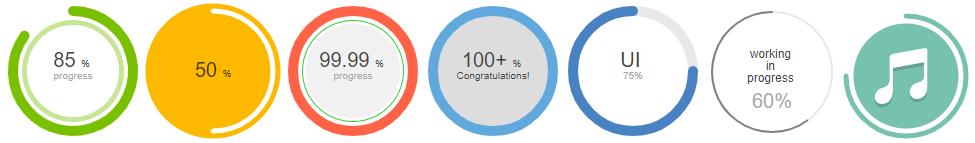
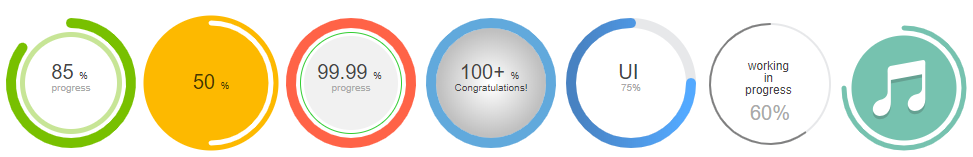
1. Fix #49, #52, #57. 2. Release 1.4.0.

diff --git a/src/circle-progress.component.ts b/src/circle-progress.component.ts
@@ -3,7 +3,9 @@ import {Subscription, timer} from 'rxjs';
 
 export interface CircleProgressOptionsInterface {
     class?: string;
+    backgroundGradient?: boolean;
     backgroundColor?: string;
+    backgroundGradientStopColor?: string;
     backgroundOpacity?: number;
     backgroundStroke?: string;
     backgroundStrokeWidth?: number;
@@ -16,9 +18,12 @@ export interface CircleProgressOptionsInterface {
     renderOnClick?: boolean;
     units?: string;
     unitsFontSize?: string;
+    unitsFontWeight?: string;
     unitsColor?: string;
+    outerStrokeGradient?: boolean;
     outerStrokeWidth?: number;
     outerStrokeColor?: string;
+    outerStrokeGradientStopColor?: string;
     outerStrokeLinecap?: string;
     innerStrokeColor?: string;
     innerStrokeWidth?: number;
@@ -26,10 +31,12 @@ export interface CircleProgressOptionsInterface {
     title?: string | Array<String>;
     titleColor?: string;
     titleFontSize?: string;
+    titleFontWeight?: string;
     subtitleFormat?: Function;
     subtitle?: string | Array<String>;
     subtitleColor?: string;
     subtitleFontSize?: string;
+    subtitleFontWeight?: string;
     imageSrc?: string;
     imageHeight?: number;
     imageWidth?: number;    
@@ -46,11 +53,14 @@ export interface CircleProgressOptionsInterface {
     clockwise?: boolean;
     responsive?: boolean;
     startFromZero?: boolean;
+    showZeroOuterStroke?: boolean;
 }
 
 export class CircleProgressOptions implements CircleProgressOptionsInterface {
     class = '';
+    backgroundGradient = false;
     backgroundColor = 'transparent';
+    backgroundGradientStopColor = 'transparent';
     backgroundOpacity = 1;
     backgroundStroke = 'transparent';
     backgroundStrokeWidth = 0;
@@ -63,9 +73,12 @@ export class CircleProgressOptions implements CircleProgressOptionsInterface {
     renderOnClick = true;
     units = '%';
     unitsFontSize = '10';
+    unitsFontWeight = 'normal';
     unitsColor = '#444444';
+    outerStrokeGradient = false;
     outerStrokeWidth = 8;
     outerStrokeColor = '#78C000';
+    outerStrokeGradientStopColor = 'transparent';
     outerStrokeLinecap = 'round';
     innerStrokeColor = '#C7E596';
     innerStrokeWidth = 4;
@@ -73,10 +86,12 @@ export class CircleProgressOptions implements CircleProgressOptionsInterface {
     title: string | Array<String> = 'auto';
     titleColor = '#444444';
     titleFontSize = '20';
+    titleFontWeight = 'normal';
     subtitleFormat = undefined;
     subtitle: string | Array<String> = 'progress';
     subtitleColor = '#A9A9A9';
     subtitleFontSize = '10';
+    subtitleFontWeight = 'normal';
     imageSrc = undefined;
     imageHeight = undefined;
     imageWidth = undefined;
@@ -93,6 +108,7 @@ export class CircleProgressOptions implements CircleProgressOptionsInterface {
     clockwise = true;
     responsive = false;
     startFromZero = true;
+    showZeroOuterStroke = true;
 }
 
 @Component({
@@ -101,14 +117,34 @@ export class CircleProgressOptions implements CircleProgressOptionsInterface {
         <svg xmlns="http://www.w3.org/2000/svg" *ngIf="svg"
              [attr.viewBox]="svg.viewBox" preserveAspectRatio="xMidYMid meet"
              [attr.height]="svg.height" [attr.width]="svg.width" (click)="emitClickEvent($event)" [attr.class]="options.class">
-            <circle *ngIf="options.showBackground"
-                    [attr.cx]="svg.backgroundCircle.cx"
-                    [attr.cy]="svg.backgroundCircle.cy"
-                    [attr.r]="svg.backgroundCircle.r"
-                    [attr.fill]="svg.backgroundCircle.fill"
-                    [attr.fill-opacity]="svg.backgroundCircle.fillOpacity"
-                    [attr.stroke]="svg.backgroundCircle.stroke"
-                    [attr.stroke-width]="svg.backgroundCircle.strokeWidth"/>
+            <defs>
+                <linearGradient *ngIf="options.outerStrokeGradient" [attr.id]="svg.outerLinearGradient.id">
+                    <stop offset="5%" [attr.stop-color]="svg.outerLinearGradient.colorStop1"  [attr.stop-opacity]="1"/>
+                    <stop offset="95%" [attr.stop-color]="svg.outerLinearGradient.colorStop2" [attr.stop-opacity]="1"/>
+                </linearGradient>
+                <radialGradient *ngIf="options.backgroundGradient" [attr.id]="svg.radialGradient.id">
+                    <stop offset="5%" [attr.stop-color]="svg.radialGradient.colorStop1" [attr.stop-opacity]="1"/>
+                    <stop offset="95%" [attr.stop-color]="svg.radialGradient.colorStop2" [attr.stop-opacity]="1"/>
+                </radialGradient>
+            </defs>
+            <ng-container *ngIf="options.showBackground">
+                <circle *ngIf="!options.backgroundGradient"
+                        [attr.cx]="svg.backgroundCircle.cx"
+                        [attr.cy]="svg.backgroundCircle.cy"
+                        [attr.r]="svg.backgroundCircle.r"
+                        [attr.fill]="svg.backgroundCircle.fill"
+                        [attr.fill-opacity]="svg.backgroundCircle.fillOpacity"
+                        [attr.stroke]="svg.backgroundCircle.stroke"
+                        [attr.stroke-width]="svg.backgroundCircle.strokeWidth"/>
+                <circle *ngIf="options.backgroundGradient"
+                        [attr.cx]="svg.backgroundCircle.cx"
+                        [attr.cy]="svg.backgroundCircle.cy"
+                        [attr.r]="svg.backgroundCircle.r"
+                        attr.fill="url(#{{svg.radialGradient.id}})"
+                        [attr.fill-opacity]="svg.backgroundCircle.fillOpacity"
+                        [attr.stroke]="svg.backgroundCircle.stroke"
+                        [attr.stroke-width]="svg.backgroundCircle.strokeWidth"/>
+            </ng-container>            
             <circle *ngIf="options.showInnerStroke"
                     [attr.cx]="svg.circle.cx"
                     [attr.cy]="svg.circle.cy"
@@ -116,12 +152,20 @@ export class CircleProgressOptions implements CircleProgressOptionsInterface {
                     [attr.fill]="svg.circle.fill"
                     [attr.stroke]="svg.circle.stroke"
                     [attr.stroke-width]="svg.circle.strokeWidth"/>
-            <path
-                    [attr.d]="svg.path.d"
-                    [attr.stroke]="svg.path.stroke"
-                    [attr.stroke-width]="svg.path.strokeWidth"
-                    [attr.stroke-linecap]="svg.path.strokeLinecap"
-                    [attr.fill]="svg.path.fill"/>
+            <ng-container *ngIf="+options.percent!==0 || options.showZeroOuterStroke">
+                <path *ngIf="!options.outerStrokeGradient"
+                        [attr.d]="svg.path.d"
+                        [attr.stroke]="svg.path.stroke"
+                        [attr.stroke-width]="svg.path.strokeWidth"
+                        [attr.stroke-linecap]="svg.path.strokeLinecap"
+                        [attr.fill]="svg.path.fill"/>
+                <path *ngIf="options.outerStrokeGradient"
+                        [attr.d]="svg.path.d"
+                        attr.stroke="url(#{{svg.outerLinearGradient.id}})"
+                        [attr.stroke-width]="svg.path.strokeWidth"
+                        [attr.stroke-linecap]="svg.path.strokeLinecap"
+                        [attr.fill]="svg.path.fill"/>
+            </ng-container>
             <text *ngIf="!options.showImage && (options.showTitle || options.showUnits || options.showSubtitle)"
                   alignment-baseline="baseline"
                   [attr.x]="svg.circle.cx"
@@ -133,11 +177,13 @@ export class CircleProgressOptions implements CircleProgressOptionsInterface {
                            [attr.y]="svg.title.y"
                            [attr.dy]="tspan.dy"
                            [attr.font-size]="svg.title.fontSize"
+                           [attr.font-weight]="svg.title.fontWeight"
                            [attr.fill]="svg.title.color">{{tspan.span}}
                     </tspan>
                 </ng-container>
                 <tspan *ngIf="options.showUnits"
                        [attr.font-size]="svg.units.fontSize"
+                       [attr.font-weight]="svg.units.fontWeight"
                        [attr.fill]="svg.units.color">{{svg.units.text}}
                 </tspan>
                 <ng-container *ngIf="options.showSubtitle">
@@ -146,6 +192,7 @@ export class CircleProgressOptions implements CircleProgressOptionsInterface {
                            [attr.y]="svg.subtitle.y"
                            [attr.dy]="tspan.dy"
                            [attr.font-size]="svg.subtitle.fontSize"
+                           [attr.font-weight]="svg.subtitle.fontWeight"
                            [attr.fill]="svg.subtitle.color">{{tspan.span}}
                     </tspan>
                 </ng-container>
@@ -165,7 +212,9 @@ export class CircleProgressComponent implements OnChanges {
     @Output() onClick: EventEmitter<any> = new EventEmitter();
 
     @Input() class: string;
+    @Input() backgroundGradient: boolean;
     @Input() backgroundColor: string;
+    @Input() backgroundGradientStopColor: String;
     @Input() backgroundOpacity: number;
     @Input() backgroundStroke: string;
     @Input() backgroundStrokeWidth: number;
@@ -180,10 +229,13 @@ export class CircleProgressComponent implements OnChanges {
 
     @Input() units: string;
     @Input() unitsFontSize: string;
+    @Input() unitsFontWeight: string;
     @Input() unitsColor: string;
 
+    @Input() outerStrokeGradient: boolean;
     @Input() outerStrokeWidth: number;
     @Input() outerStrokeColor: string;
+    @Input() outerStrokeGradientStopColor: String;
     @Input() outerStrokeLinecap: string;
 
     @Input() innerStrokeColor: string;
@@ -193,11 +245,13 @@ export class CircleProgressComponent implements OnChanges {
     @Input() title: string | Array<String>;
     @Input() titleColor: string;
     @Input() titleFontSize: string;
+    @Input() titleFontWeight: string;
 
     @Input() subtitleFormat: Function;
     @Input() subtitle: string | string[];
     @Input() subtitleColor: string;
     @Input() subtitleFontSize: string;
+    @Input() subtitleFontWeight: string;
 
     @Input() imageSrc: string;
     @Input() imageHeight: number;
@@ -217,6 +271,7 @@ export class CircleProgressComponent implements OnChanges {
     @Input() clockwise: boolean;
     @Input() responsive: boolean;
     @Input() startFromZero: boolean;
+    @Input() showZeroOuterStroke: boolean;
 
     @Input('options') templateOptions: CircleProgressOptions;
 
@@ -225,6 +280,7 @@ export class CircleProgressComponent implements OnChanges {
     options: CircleProgressOptions = new CircleProgressOptions();
     defaultOptions: CircleProgressOptions = new CircleProgressOptions();
     _lastPercent: number = 0;
+    _gradientUUID: string = null;
     render = () => {
         this.applyOptions();
         if (this.options.animation && this.options.animationDuration > 0) {
@@ -281,6 +337,7 @@ export class CircleProgressComponent implements OnChanges {
             textAnchor: 'middle',
             color: this.options.titleColor,
             fontSize: this.options.titleFontSize,
+            fontWeight: this.options.titleFontWeight,
             texts: [],
             tspans: []
         };
@@ -310,6 +367,7 @@ export class CircleProgressComponent implements OnChanges {
             textAnchor: 'middle',
             color: this.options.subtitleColor,
             fontSize: this.options.subtitleFontSize,
+            fontWeight: this.options.subtitleFontWeight,
             texts: [],
             tspans: []
         }
@@ -332,6 +390,7 @@ export class CircleProgressComponent implements OnChanges {
         let units = {
             text: `${this.options.units}`,
             fontSize: this.options.unitsFontSize,
+            fontWeight: this.options.unitsFontWeight,
             color: this.options.unitsColor
         };
         // get total count of text lines to be shown
@@ -351,6 +410,10 @@ export class CircleProgressComponent implements OnChanges {
                 subtitle.tspans.push({span: span, dy: this.getRelativeY(rowNum, rowCount)})
                 rowNum++;
             }
+        }
+        // create ID for gradient element
+        if (null === this._gradientUUID){
+            this._gradientUUID = this.uuid();
         }
         // Bring it all together
         this.svg = {
@@ -394,6 +457,16 @@ export class CircleProgressComponent implements OnChanges {
                 width: this.options.imageWidth,
                 height: this.options.imageHeight,
             },
+            outerLinearGradient: {
+                id: 'outer-linear-' + this._gradientUUID,
+                colorStop1: this.options.outerStrokeColor,
+                colorStop2: this.options.outerStrokeGradientStopColor === 'transparent' ? '#FFF' : this.options.outerStrokeGradientStopColor,
+            },
+            radialGradient: {
+                id: 'radial-' + this._gradientUUID,
+                colorStop1: this.options.backgroundColor,
+                colorStop2: this.options.backgroundGradientStopColor === 'transparent' ? '#FFF' : this.options.backgroundGradientStopColor,
+            }
         };
     };
     getAnimationParameters = (previousPercent: number, currentPercent: number) => {
@@ -514,6 +587,17 @@ export class CircleProgressComponent implements OnChanges {
     private max = (a, b) => {
         return a > b ? a : b;
     };
+
+    private uuid = () => {
+        // https://www.w3resource.com/javascript-exercises/javascript-math-exercise-23.php
+        var dt = new Date().getTime();
+        var uuid = 'xxxxxxxx-xxxx-4xxx-yxxx-xxxxxxxxxxxx'.replace(/[xy]/g, function(c) {
+            var r = (dt + Math.random()*16)%16 | 0;
+            dt = Math.floor(dt/16);
+            return (c=='x' ? r :(r&0x3|0x8)).toString(16);
+        });
+        return uuid;
+    }
 
     constructor(
         defaultOptions: CircleProgressOptions) {

diff --git a/README.MD b/README.MD
@@ -91,7 +91,8 @@ maxPercent | `number` | `1000` | Max number of percent you want to show
 radius | `number` | `90` | Radius of circle
 clockwise | `boolean` | `true` | Whether to rotate clockwise or counter-clockwise
 responsive | `boolean` | `false` | Whether to make the circle responsive
-startFromZero | `boolean` | `true` | Whether to start the percent from zero 
+startFromZero | `boolean` | `true` | Whether to start the percent from zero
+showZeroOuterStroke | `boolean` | `true` | Whether to show the bar if percent is zero
 showTitle | `boolean` | `true` | Whether to display title
 showSubtitle | `boolean` | `true` | Whether to display subtitle
 showUnits | `boolean` | `true` | Whether to display units
@@ -101,16 +102,21 @@ showInnerStroke | `boolean` | `true` | Whether to display inner stroke
 backgroundStroke | `string` | `'transparent'` | Background stroke color
 backgroundStrokeWidth | `number` | `0` | Stroke width of background circle
 backgroundPadding | `number` | `5` | Padding of background circle
+backgroundGradient | `boolean` | `false` | Make background gradient
 backgroundColor | `string` | `'transparent'` | Background color
+backgroundGradientStopColor | `string` | `'transparent'` | Background gradient stop color
 backgroundOpacity | `number` | `1` | Opacity of background color
 space | `number` | `4` | Space between outer circle and inner circle
 toFixed | `number` | `0` | Using fixed digital notation in Title
 renderOnClick | `boolean` | `true` | Render when component is clicked
 units | `string` | `'%'` | Units showed aside the title
 unitsFontSize | `string` | `'10'` | Font size of units
+unitsFontWeight | `string` | `'100'` | Font weight of units
 unitsColor | `string` | `'#444444'` | Font color of units
 outerStrokeWidth | `number` | `8` | Stroke width of outer circle (progress circle)
+outerStrokeGradient | `boolean` | `false` | Make outer circle gradient
 outerStrokeColor | `sting` | `'#78C000'` | Stroke color of outer circle
+outerStrokeGradientStopColor | `string` | `'transparent'` | Stroke gradient stop color of outer circle
 outerStrokeLinecap | `sting` | `'round'` | Stroke linecap of outer circle. Possible values(butt, round, square, inherit)
 innerStrokeWidth | `number` | `4` | Stroke width of inner circle
 innerStrokeColor | `sting` | `'#C7E596'` | Stroke color of inner circle
@@ -118,10 +124,12 @@ title | `string\|Array<String>` | `'auto'` | text showed as title. Percentage is
 titleFormat | `Function` | `undefined` | A callback function to format title. It returns a string or an array of string.
 titleColor | `string` | `'#444444'` | Font color of title
 titleFontSize | `string` | `'20'` | Font size of title
+titleFontWeight | `string` | `'100'` | Font weight of title
 subtitle | `string\|Array<String>` | `'Percent'` | text showed as subtitle
 subtitleFormat | `Function` | `undefined` | A callback function to format subtitle. It returns a string or an array of string.
 subtitleColor | `string` | `'#A9A9A9'` | Font color of subtitle
 subtitleFontSize | `string` | `'10'` | Font size of subtitle
+subtitleFontWeight | `string` | `'100'` | Font weight of subtitle
 imageSrc | `string` | `'/assets/images/music.svg'` | Src of image
 imageHeight | `number` | `80` | Height of image
 imageWidth | `number` | `80` | Width of image
